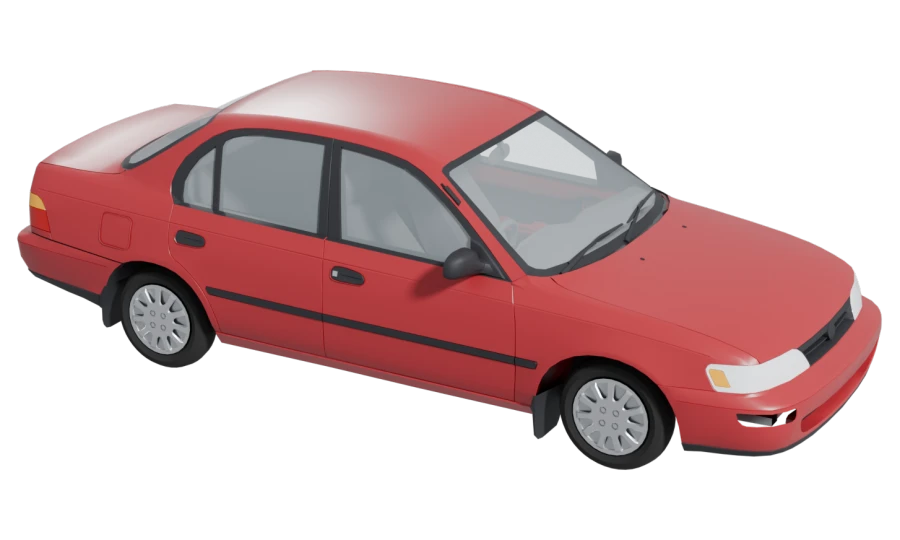
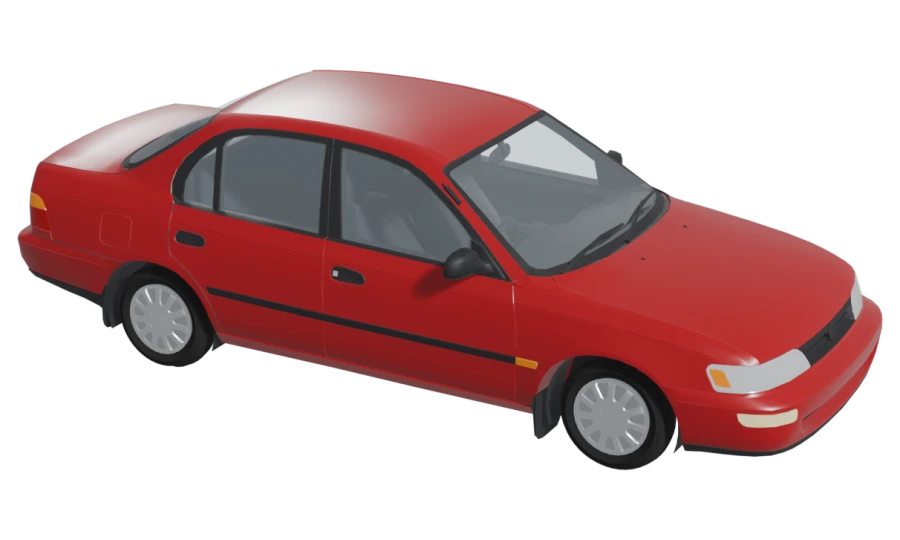
Corolla: README ve kütüphane kartı güncellendi

diff --git a/templates/src/corolla/README.md b/templates/src/corolla/README.md
@@ -1,15 +1,17 @@
 # Corolla şablonu
 
-Toyota Corolla E100 (1991-1997) dört kapılı sedan. Gövde ve şasi E100 kasaya ait; motor 1,8 litrelik 1ZZ-FE olarak gösterilir. AE101'in kendi motoru (4A-FE) için açık lisanslı ayrıntılı bir model bulunamadı. 1ZZ-FE bir sonraki nesil Corolla'nın motoru ama yapısı aynı: enine, dört silindirli, çift eksantrikli.
+Toyota Corolla E100 (1991-1997) dört kapılı sedan. Gövde ve şasi E100 kasaya ait; motor 1,8 litrelik 1ZZ-FE olarak gösterilir. AE101'in kendi motoru (4A-FE) için açık lisanslı ayrıntılı bir model bulunamadı. 1ZZ-FE bir sonraki nesil Corolla'nın motoru ama yapısı aynı: enine, dört silindirli, çift eksantrikli. Motorla ilgili bütün değerler (kompresyon, buji, supap boşluğu, sensörler, yakıt basıncı) 1ZZ-FE'ye göre yazıldı.
 
 ```
 corolla/
 ├── naya.json      manifest (bütünlük özetleri paketlerken eklenir)
-├── csdb/          S1000D Issue 5.0: 40 DM, PM, DML, 6 çizim
-├── map/           parts.json (60 parça), faults.json (24 arıza), zones.json
-├── model/         product.glb
+├── csdb/          S1000D Issue 5.0: 152 DM, PM, DML, 11 çizim
+├── map/           parts.json (139 parça), faults.json (100 arıza, 88 belirti), zones.json
+├── model/         product.glb (90 düğüm)
 └── scripts/       modeli kuran, içeriği ve çizimleri üreten betikler
 ```
+
+Paket yaklaşık 3,8 MB.
 
 Paketleme ve doğrulama (repo kökünden):
 
@@ -30,24 +32,29 @@ DM'ler, PM, DML ve `map/` altındaki dosyalar `scripts/make_content.py` ile tek 
 cd templates/src/corolla/scripts && python3 make_content.py
 ```
 
+Betik çalışırken şunları da denetler: her DMC başvurusu tanımlı bir DM'e gidiyor, aynı DMC iki kez tanımlanmıyor, her belirti bir arızada kullanılıyor ve modeldeki her düğüme dokununca o düğümün kendi parçası açılıyor. Var olan DMC'ler korunur; teşhis geçmişi ve testler onlara bağlı.
+
 | SNS | Sistem |
 | --- | --- |
-| `D00` | Araç (genel tanım, periyodik kontrol, parça kataloğu, iş kuralları) |
-| `DA0` | Gövde (`-10` kapılar, `-20` kaput ve bagaj, `-30` tamponlar, `-40` camlar ve silecekler) |
-| `DA1` | Motor (`-10` blok, kapak ve pistonlar, `-20` triger, `-30` yağlama, `-40` soğutma, `-50` ateşleme, `-60` emme ve egzoz) |
+| `D00` | Araç (genel tanım, periyodik bakım, parça kataloğu, iş kuralları) |
+| `DA0` | Gövde (`-10` kapılar, `-20` kaput ve bagaj, `-30` tamponlar ve ızgara, `-40` camlar ve silecekler, `-50` aynalar, `-60` koltuklar, kemerler ve hava yastığı, `-70` iç döşeme) |
+| `DA1` | Motor (`-10` blok, kapak ve pistonlar, `-20` triger, `-30` yağlama, `-40` soğutma, `-50` ateşleme, `-60` emme ve egzoz, `-70` yakıt, `-80` motor yönetimi, `-90` emisyon kontrolü) |
 | `DA2` | Güç aktarma (`-10` şanzıman ve debriyaj, `-20` aks milleri) |
-| `DA3` | Fren sistemi (`-10` ön, `-20` arka, `-30` servo ve hidrolik) |
+| `DA3` | Fren sistemi (`-10` ön, `-20` arka, `-30` servo ve hidrolik, `-40` el freni) |
 | `DA4` | Süspansiyon ve direksiyon (`-10` ön, `-20` arka, `-30` direksiyon) |
-| `DA5` | Tekerlekler (`-10` lastikler) |
-| `DA6` | Elektrik ve aydınlatma (`-10` akü, `-20` farlar) |
+| `DA5` | Tekerlekler (`-10` lastikler, `-20` tekerlek rulmanları) |
+| `DA6` | Elektrik ve aydınlatma (`-10` akü, `-20` lambalar, `-30` şarj, `-40` marş, `-50` gösterge paneli, `-60` sigortalar ve demet, `-70` camlar ve kilitler, `-80` korna) |
+| `DA7` | Isıtma ve klima (`-10` kalorifer ve fan, `-20` klima) |
 
-İçerik genel bakım bilgisidir (seviye kontrolleri, sarf parça değişimleri, arıza bulma). Tork ve ölçü değerleri bu sınıf araçlar için yaygın değerlerdir; gerçek bir araçta üreticinin el kitabına bakılmalıdır.
+Teşhiste sorulan sistemler parça ağacının kökleridir: gövde, kabin, motor, soğutma, yakıt, emme-egzoz-emisyon, ateşleme, motor yönetimi, elektrik, aydınlatma, ısıtma-klima, güç aktarma, fren, süspansiyon-direksiyon, tekerlekler. Her arızanın belirtileri, bir arıza bulma DM'i (evet/hayır adımlı) ve bir onarım ya da değiştirme DM'i vardır; prosedürlerde alet, sarf malzemesi ve yedek parça listeleri, uyarılar ve sıkma torkları yer alır. Yedek parçalar IPD'deki parça numarasıyla eşleşir. Miktarı bilinmeyen sarf malzemeleri "Gerektiği kadar" yazılır.
+
+Veriler yayımlanmış 1ZZ-FE ve E100 servis bilgilerinden (servis el kitabı alıntıları, kullanıcı el kitapları, motor teknik veri sayfaları) derlendi. Değerler eğitim ve teşhis amaçlıdır; gerçek bir araçta üreticinin el kitabına bakılmalıdır. Bu donanımda ABS yok; 1ZZ-FE'de EGR valfi bulunmaz.
 
 Çizimler (`ICN-…-0000N-…JPG`) modelden `scripts/render_icn.py` ile üretilir; konusu olan parçalar turuncu.
 
 ## Model
 
-`model/product.glb`: 57 düğüm, Draco sıkıştırmalı (~2,5 MB, ~530 bin üçgen).
+`model/product.glb`: 90 düğüm, Draco sıkıştırmalı (~2,6 MB, ~530 bin üçgen).
 
 Kaynaklar, ikisi de **CC BY 4.0**. Uygulamada ve `.naya` manifestinin `credits` alanında bu atıflar gösterilir:
 
@@ -72,12 +79,13 @@ blender -b --python templates/scripts/render_thumbnail.py -- templates/src/corol
 
 1. Gövde modelindeki seçenekli parçalardan (tampon, ızgara, fren) fabrika çıkışı olanı alır.
 2. Parçaları uygulamanın düğümlerine toplar (`door_fl`, `strut_front`...).
-3. Motor bölmesindeki karışık parçayı konumlara göre aküye, hava filtresine, genleşme kabına, fren servosuna ayırır.
-4. Eski düşük ayrıntılı motordan yalnız şanzımanı tutar; 1ZZ-FE'yi enine, volanı şanzımana bakacak şekilde yerleştirir.
-5. Kaynakta olmayan lastik, jant ve egzozu yapar; göbek kapağını her tekerleğe kopyalar.
-6. Malzemeleri adlarına göre yeniden renklendirir; kaynakta hiçbir malzemenin rengi yok.
+3. Gövdeyi, kabini ve motor bölmesini birbirine değmeyen parçalarına (adacık) ayırır; her adacık malzemesine ve konumuna göre düğümüne gider: silecekler, koltuklar, gösterge paneli, gösterge kadranı, pedallar, halı, iç döşeme, genleşme kabı, cam suyu deposu, hidrolik direksiyon deposu, radyatör hortumları...
+4. Kabinden görünen boyalı sacın 4 mm içine döşeme renginde bir kopya koyar (tavanda açık renk tavan döşemesi, belin altında koyu döşeme, kapılarda kapı döşemesi); camdan bakınca içerisi kırmızı görünmez.
+5. Eski düşük ayrıntılı motordan yalnız şanzımanı tutar; 1ZZ-FE'yi enine, volanı şanzımana bakacak şekilde yerleştirir.
+6. Kaynakta olmayan parçaları basit biçimlerle yapar: lastik ve jant, egzoz hattı (ön boru, katalitik konvertör, susturucu), yakıt deposu, radyatör fanı, alternatör, marş motoru, klima kompresörü ve kondenseri, tekerlek davlumbazı iç kaplamaları. Göbek kapağını her tekerleğe kopyalar.
+7. Malzemeleri düğüme ve adlarına göre yeniden renklendirir; kaynakta hiçbir malzemenin rengi yok. glTF temel renkleri doğrusal olduğu ve görüntüleyicide (RoomEnvironment + ACES) açık göründüğü için değerler koyu seçildi.
 
-Motor sadeleştirilmiyor: ince parçalarda sadeleştirme sivri üçgenler bırakıyor. Kaynakta silindir kafasının bir köşesi kafanın çok altında kalmıştı; X-ışınında "V" çiziyordu, betik bu köşeyi siler.
+Motor sadeleştirilmiyor: ince parçalarda sadeleştirme sivri üçgenler bırakıyor. Kaynakta silindir kafasının bir köşesi kafanın çok altında kalmıştı; X-ışınında "V" çiziyordu, betik bu köşeyi siler. Arka disklerin merkezi öndekilerden 2 cm alçak; arka lastiklerin yere giren kısmı basılmış gibi düzlenir.
 
 ## Parçalar
 
@@ -85,17 +93,20 @@ Düğüm adlarında nokta yerine alt çizgi var, çünkü three.js düğüm adı
 
 | Düğüm | Parça |
 | --- | --- |
-| `body` | Gövde kabuğu, camlar, iç döşeme |
-| `hood`, `trunk` | Kaput, bagaj kapağı |
-| `door_fl`, `door_fr`, `door_rl`, `door_rr` | Kapılar |
-| `fender_l`, `fender_r`, `bumper_front`, `bumper_rear`, `grille` | Çamurluklar, tamponlar, ızgara |
-| `headlight_*`, `taillight_*`, `mirror_*` | Farlar, stop lambaları, aynalar |
-| `engine_*` | 1ZZ-FE: blok, kafa, conta, külbütör kapağı, eksantrikler, triger, krank, piston, biyel, karter, yağ pompası ve filtresi, su pompası, manifoldlar, bobinler, bujiler |
-| `air_filter`, `battery`, `coolant_tank`, `radiator`, `brake_booster` | Motor bölmesi |
+| `body` | Gövde kabuğu (tavan, direkler, taban, iç çamurluklar, radyatör traversi) |
+| `hood`, `trunk`, `door_fl`, `door_fr`, `door_rl`, `door_rr` | Kaput, bagaj kapağı, kapılar (camı ve döşemesiyle) |
+| `fender_l`, `fender_r`, `bumper_front`, `bumper_rear`, `grille` | Çamurluklar (yan sinyalle), tamponlar, ızgara |
+| `windshield`, `rear_window`, `wipers`, `washer_tank`, `mirror_l`, `mirror_r` | Camlar, silecekler, cam suyu deposu, aynalar |
+| `headlight_*`, `foglight_*`, `taillight_*` | Farlar, sis lambaları, arka lambalar |
+| `seat_front_l`, `seat_front_r`, `seat_rear`, `dashboard`, `instrument_cluster`, `steering_wheel`, `pedals`, `carpet`, `headliner`, `interior_trim` | Kabin |
+| `engine_*` | 1ZZ-FE: blok, kafa, conta, supap kapağı, eksantrikler, triger zinciri ve kapağı, krank, krank kasnağı, krank konum sensörü, piston, biyel, karter, yağ pompası ve filtresi, su pompası, manifoldlar, bobinler, bujiler |
+| `air_filter`, `battery`, `alternator`, `starter`, `brake_booster`, `ps_reservoir` | Motor bölmesi |
+| `radiator`, `radiator_fan`, `radiator_hoses`, `coolant_tank`, `ac_condenser`, `ac_compressor` | Soğutma ve klima |
+| `fuel_tank`, `exhaust_pipe`, `catalytic_converter`, `muffler` | Yakıt deposu ve egzoz hattı |
 | `transaxle`, `driveshaft_front` | Şanzıman, aks milleri |
-| `brake_front`, `brake_rear` | Diskler ve kaliperler |
-| `strut_front`, `control_arm_front`, `subframe_front`, `suspension_rear`, `steering_rack`, `steering_wheel` | Süspansiyon ve direksiyon |
+| `brake_caliper_front`, `brake_disc_front`, `brake_caliper_rear`, `brake_disc_rear` | Kaliperler ve diskler |
+| `strut_front`, `control_arm_front`, `hub_front`, `subframe_front`, `steering_rack` | Ön süspansiyon ve direksiyon |
+| `strut_rear`, `arms_rear`, `stabilizer_rear`, `subframe_rear`, `hub_rear` | Arka süspansiyon |
 | `wheel_fl`, `wheel_fr`, `wheel_rl`, `wheel_rr` | Lastik, jant, göbek kapağı |
-| `exhaust` | Egzoz borusu ve susturucu |
 
-Ayrı düğümü olmayan parçalar (balatalar, debriyaj, silecekler) içinde bulundukları düğüme bağlı; seçilince o düğüm vurgulanır.
+Ayrı düğümü olmayan parçalar (balatalar, debriyaj, enjektörler, sensörler, motor beyni, kalorifer peteği, yakıt pompası...) içinde bulundukları düğüme bağlı; seçilince o düğüm vurgulanır. Bir düğüme dokununca her zaman o düğümün kendi parçası açılır (örneğin gövdeye dokununca "Gövde kabuğu", silecek kollarına dokununca "Silecekler").
